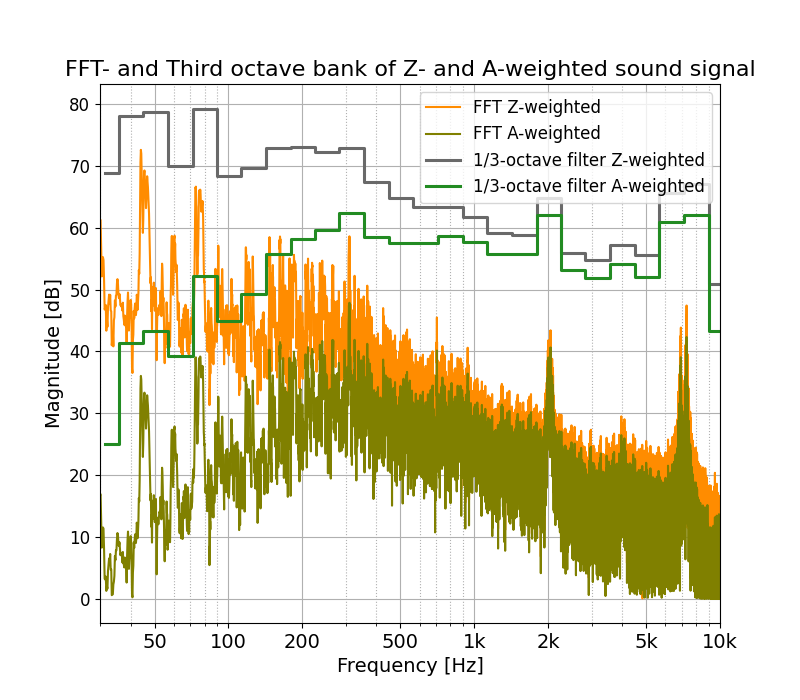
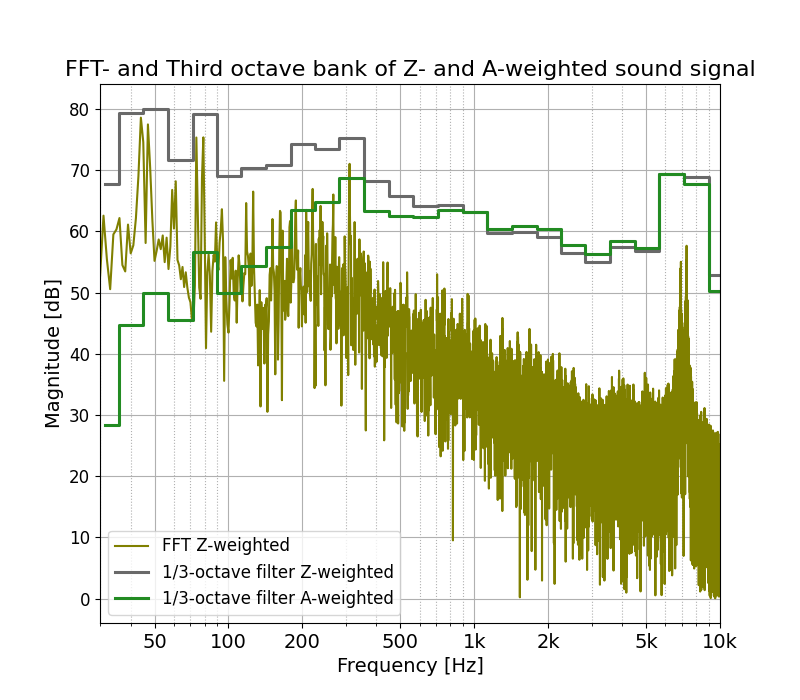
Final code changes

Changed region(s): [[0.0938, 0.12, 0.9062, 0.87], [0.0938, 0.66, 0.125, 0.69], [0.0938, 0.57, 0.125, 0.6]]

diff --git a/A0.py b/A0.py
@@ -120,7 +120,7 @@ def _runningMeanFast(x, N):
     :param N: Window_length
     :return: array with running mean values
     """
-    return np.convolve(x, np.ones((N,))/N)[(N-1):]
+    return 10*np.log10(np.convolve(10**(x/10), np.ones((N,))/N)[(N-1):])
 
 def _fft_signal(array, fs):
     """Generate the FFT and frequency axis values of the time signal
@@ -132,13 +132,13 @@ def _fft_signal(array, fs):
     Returns:
         _type_: Frequency array and FFT values
     """
-    N = len(array)
-    y = np.fft.fft(array)[0:int(N/2)]/N
-    y = 1.41*y
-    #y = _runningMeanFast(y,5)
-    p_y = 20*np.log10(_runningMeanFast(np.abs(y),3) / values.p0)
-    #p_y = _runningMeanFast(p_y, 5)            # Mulig sløyfe denne. Mister energi i spektrumet siden den middler uten å gå over til Pa først.
-    f = fs*np.arange((N/2))/N
+    if (values.nfft != 0) : N = values.nfft
+    if (values.nfft == 0) : N = len(array)
+    y = np.fft.fft(array, N)[0:int(N/2)]/N
+    #y = _runningMeanFast(y,2)
+    #y = np.sqrt(2)*y
+    p_y = 20*np.log10(np.abs(y) / values.p0)
+    f = N*np.arange((N/2))/N
     return f, p_y
 
 def _A_weight(array, fs):
@@ -250,8 +250,8 @@ def _plot_step_Leq(arr, fs):
     l_eq_125ms.append(l_eq_125ms[-1])
 
     fig, ax = plt.subplots(figsize=(8,7))
-    ax.step(time_125ms, l_eq_125ms, where="post",label=str("$L_{eq,125ms}$ - $L_{eq,tot}$ : "+ str(round(leq_tot_125,1)) +" dB"))
-    ax.step(time_1s, l_eq_1s,where="post", label=str("$L_{eq,1s}$ - $L_{eq,tot}$: " + str(round(leq_tot_125,1)) +" dB"))
+    ax.step(time_125ms, l_eq_125ms, color="olive", where="post",label=str("$L_{eq,125ms}$ - $L_{eq,tot}$ : "+ str(round(leq_tot_125,1)) +" dB"))
+    ax.step(time_1s, l_eq_1s,where="post", color="forestgreen", label=str("$L_{eq,1s}$ - $L_{eq,tot}$: " + str(round(leq_tot_125,1)) +" dB"))
     ax.legend()
     ax.set_title("Equivalent sound pressure level for \n fast (125 ms) and slow (1s) time constants")
     ax.set_xlabel("Time [s]")
@@ -273,7 +273,7 @@ def _Lp_from_third_oct(arr):
     for i in arr: Lp += 10**(i/10)
     return 10*np.log10(Lp)
 
-def _sort_into_third_octave_bands(freq, array, third_oct):
+def _sort_into_third_octave_bands(freq, array, third_oct, A_weight_val):
     """Takes in the FFT and frequency values and sort it into third octave bands
 
     Args:
@@ -287,7 +287,6 @@ def _sort_into_third_octave_bands(freq, array, third_oct):
     third_octave_banks = []
     single_bank = []
     i = 0
-
     for it, x in enumerate(freq):
         if (x > third_oct[-1]) : break
         if (x >= third_oct[i] and x < third_oct[i+1]): 
@@ -298,8 +297,10 @@ def _sort_into_third_octave_bands(freq, array, third_oct):
             single_bank = []
             single_bank.append(round(array[it],2))
     filtered_array = []
+    filtered_signal_A = []
     for n in third_octave_banks : filtered_array.append(_Lp_from_third_oct(n))
-    return filtered_array
+    for n, val in enumerate(filtered_array) : filtered_signal_A.append(val + A_weight_val[n])
+    return filtered_array, filtered_signal_A
 
 def _plot_fft_and_third_oct(freq, fft, third_oct_val, third_oct_step, fft_A, freq_A, third_oct_val_A):
     """ Takes in FFT and third octave filtered signal for both Z- and A-weighted signal and plot the values in one figure
@@ -324,8 +325,8 @@ def _plot_fft_and_third_oct(freq, fft, third_oct_val, third_oct_step, fft_A, fre
     Lp_fft_A = _Lp_from_freq(fft_A,freq_A)
     Lp_third_oct_A = _Lp_from_freq(third_oct_val_A,third_oct_step)
 
-    ax.plot(freq, np.abs(fft), color="darkorange",label="FFT Z-weighted")
-    ax.plot(freq_A, np.abs(fft_A), color="olive",label="FFT A-weighted")
+    ax.plot(freq, np.abs(fft), color="olive",label="FFT Z-weighted")
+    #ax.plot(freq_A, np.abs(fft_A), color="olive",label="FFT A-weighted")
     ax.step(third_oct_step, third_oct_val, linewidth=2.2, where="mid", 
             color="dimgray", label="1/3-octave filter Z-weighted")
     ax.step(third_oct_step, third_oct_val_A, linewidth=2.2, 
@@ -365,15 +366,16 @@ def _print_stuff(fs_sound_file=0, sound_file=0, cal_before=0, cal_after=0, A=0, 
     """
     print("********** -- Important values -- **********\n")
     
-    print("- Sampling frequency: {0} Hz -- length of file {1} Seconds \n- Start point: {2} s -- End point: {3} s"
+    print("- Sampling frequency: {0} Hz -- length of file {1} Seconds \n- Start point: {2} s \n- End point: {3} s"
           .format(fs_cal, len(array)/fs_cal, values.start, values.stop))
-    print("- Scaling factor A={}".format(round(A,1)))
+    print("- Scaling factor A = {}".format(round(A,1)))
     print("- Calibration before measurements: {0:.1f} dB\n- Calibration after measurements: {1:.1f} dB "
           .format(cal_before_Lp, cal_after_Lp))
-    print("- Total Lp from entire sound signal Z-weighted: {0:.1f} dB \n- Total Lp from Third octave bands Z-weighted: {1:.1f}".format(_calculate_Lp(array), Lp_fft))
+    print("- Total Lp from sound pressure signal Z-weighted: {0:.1f} dB \n- Total Lp from Third octave bands Z-weighted: {1:.1f} dB".format(_calculate_Lp(array), Lp_fft))
     print("\t\t Z-weighted \t A-weighted\n Lp,fft\t\t{0:.1f} dB\t\t{1:.1f} dB\n Lp,1/3 \t{2:.1f} dB \t{3:.1f} dB".format(Lp_fft, Lp_fft_A, third_oct, third_oct_A))
     
     print("\n******************************************")
+
 
 
 if __name__ == '__main__':
@@ -386,6 +388,7 @@ if __name__ == '__main__':
     #*********   Check calibration, find scaling factor and scale sound pressure array******
     cal_before_Lp, cal_after_Lp, A = _check_calibration(cal_before,cal_after)
     array, A = _scale_array(sound_file,cal_before)
+    
     start = values.start*fs_cal
     stop = values.stop*fs_cal
     array = array[start:stop]
@@ -402,10 +405,13 @@ if __name__ == '__main__':
     freq_A, fft_A = _fft_signal(array_A_weighted, fs_sound_file)
 
     #*********   Sort FFT values into third octave bands for Z- and A-weighted FFT signal ******
-    filtered_signal = _sort_into_third_octave_bands(freq, fft, 
-                                                    values.third_octave_lower[values.third_octave_start:])
-    filtered_signal_A = _sort_into_third_octave_bands(freq_A, fft_A, 
-                                                      values.third_octave_lower[values.third_octave_start:])
+    filtered_signal, filtered_signal_A = _sort_into_third_octave_bands(freq, fft, 
+                                                    values.third_octave_lower[values.third_octave_start:], 
+                                                    values.THIRD_OCTAVE_A_WEIGHTING[values.third_octave_start:])
+    
+    if (values.A_weight_freq == False):
+        filtered_signal_A = _sort_into_third_octave_bands(freq_A, fft_A, 
+                                                          values.third_octave_lower[values.third_octave_start:])
     
     #*********   Plot the FFT and 1/3 octave band values and return the Lp values for these *****
     Lp_fft, Lp_fft_A, third_oct, third_oct_A  = _plot_fft_and_third_oct(freq, fft, filtered_signal, 

diff --git a/values.py b/values.py
@@ -1,13 +1,23 @@
-p0 = 20*10**(-6)
-cal_value = 94
-start = 40
-stop = 46
-third_octave_start = 4
-freq_min = 30
-freq_max = 10000
+p0 = 20*10**(-6)  # p refvalue
+cal_value = 94    # Calibration value in dB
+start = 40        # Start of the sound signal in seconds
+stop = 46         # End of the sound signal in seconds
+third_octave_start = 4   # Start of third octave band array -- 4 means starting from 31.5 Hz
+freq_min = 30     # Xlim minimum value for the frequency plot
+freq_max = 10000  # Xlim maximum value for the frequency plot
 
+nfft = 48000  # Set to zero if nfft value should be length of array
+A_weight_freq = True # If set to False, A weight will be found straight from the A-weight filter on the sound pressure signal
+
+
+#######  Global array values that shall not be changed #########
 x_ticks_third_octave = [50, 100, 200, 500, 1000, 2000, 5000, 10000]
 x_ticks_third_octave_labels = ["50","100", "200", "500", "1k", "2k", "5k", "10k"]
+
+THIRD_OCTAVE_A_WEIGHTING = [
+    -63.4, -56.7, -50.5, -44.7, -39.4, -34.6, -30.2, -26.2, -22.5, -19.1, -16.1, -13.4, -10.9, -8.6, -6.6, -4.8, -3.2,
+    -1.9, -0.8, +0.0, +0.6, +1.0, +1.2, +1.3, +1.2, +1.0, +0.5, -0.1, -1.1, -2.5, -4.3, -6.6, -9.3
+]
 
 THIRD_OCTAVE_A_WEIGHTING = [
     -63.4, -56.7, -50.5, -44.7, -39.4, -34.6, -30.2, -26.2, -22.5, -19.1, -16.1, -13.4, -10.9, -8.6, -6.6, -4.8, -3.2,
